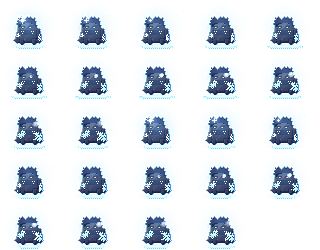
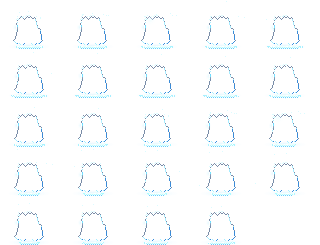
fix(client): effects review fixes
Slowed enemies were buried under the frozen sheet, which repaints the
whole body in ice: with a crowd slowed, enemy kinds (and the boss) could
not be told apart. The bake now keeps only the frost outside the body
(rim, snow, icicles, frost underfoot) and drops the big cold glows, the
scene always tints a slowed body blue, the frost cover is drawn at 0.6
alpha, and reduced effects keep only the tint.

diff --git a/packages/client/test/fx-atlas.test.ts b/packages/client/test/fx-atlas.test.ts
@@ -1,5 +1,6 @@
 import { existsSync, readFileSync } from 'node:fs';
 import { join } from 'node:path';
+import { inflateSync } from 'node:zlib';
 import { loadGameData } from '@dorandi/logic';
 import { describe, expect, test } from 'vitest';
 import { FX_KEYS, areaSheet, hitKey, pierceSheet, quarterTurn, statusKey, textureKey } from '../src/fx/atlas';
@@ -88,7 +89,57 @@ describe('statuses regenerated per enemy sprite', () => {
     expect(statusKey('stun', 'nobody')).toBe('stun-japgwi');
     expect(statusKey('frozen', 'nobody')).toBeNull();
   });
+
+  test('the frost sheet leaves the inside of the body clear, so a slowed enemy still reads as itself', () => {
+    for (const id of ['japgwi', 'geuseundae', 'dueoksini', 'jinegaksi', 'gangcheori']) {
+      const key = `frozen-${id}` as keyof typeof FX_SHEETS;
+      const s = FX_SHEETS[key];
+      const sprite = readPng(join(__dirname, '..', 'public', 'sprites', `${id}.png`));
+      const sheet = readPng(join(PUBLIC, `${key}.png`));
+      const json = JSON.parse(readFileSync(join(PUBLIC, `${key}.json`), 'utf8')) as { frames: { frame: { x: number; y: number } }[] };
+      const on = (x: number, y: number) => x >= 0 && y >= 0 && x < sprite.w && y < sprite.h && sprite.alpha(x, y) > 0;
+      let inside = 0, covered = 0;
+      for (const { frame } of json.frames) {
+        for (let y = 0; y < sprite.h; y++) for (let x = 0; x < sprite.w; x++) {
+          if (!(on(x, y) && on(x - 1, y) && on(x + 1, y) && on(x, y - 1))) continue;
+          // the sheet's pivot is the sprite's feet: the bottom centre of its image
+          const fx = s.px - Math.floor(sprite.w / 2) + x, fy = s.py - sprite.h + y;
+          inside++;
+          if (fx >= 0 && fy >= 0 && fx < s.w && fy < s.h && sheet.alpha(frame.x + fx, frame.y + fy) >= 128) covered++;
+        }
+      }
+      expect(covered / inside, id).toBeLessThan(0.1);
+    }
+  });
 });
+
+/** Alpha of an 8-bit RGBA PNG (the format the bake writes and the sprites use). */
+function readPng(file: string): { w: number; h: number; alpha(x: number, y: number): number } {
+  const buf = readFileSync(file);
+  let pos = 8, w = 0, h = 0;
+  const idat: Buffer[] = [];
+  while (pos < buf.length) {
+    const len = buf.readUInt32BE(pos), kind = buf.toString('ascii', pos + 4, pos + 8), data = buf.subarray(pos + 8, pos + 8 + len);
+    if (kind === 'IHDR') {
+      w = data.readUInt32BE(0); h = data.readUInt32BE(4);
+      if (data[8] !== 8 || data[9] !== 6) throw new Error(`${file}: not 8-bit RGBA`);
+    }
+    if (kind === 'IDAT') idat.push(data);
+    pos += 12 + len;
+  }
+  const raw = inflateSync(Buffer.concat(idat)), stride = w * 4, out = new Uint8Array(w * h * 4);
+  for (let y = 0; y < h; y++) {
+    const f = raw[y * (stride + 1)]!;
+    for (let x = 0; x < stride; x++) {
+      const a = x >= 4 ? out[y * stride + x - 4]! : 0, b = y > 0 ? out[(y - 1) * stride + x]! : 0, c = x >= 4 && y > 0 ? out[(y - 1) * stride + x - 4]! : 0;
+      const p = a + b - c, pa = Math.abs(p - a), pb = Math.abs(p - b), pc = Math.abs(p - c);
+      const paeth = pa <= pb && pa <= pc ? a : pb <= pc ? b : c;
+      const add = f === 1 ? a : f === 2 ? b : f === 3 ? (a + b) >> 1 : f === 4 ? paeth : 0;
+      out[y * stride + x] = (raw[y * (stride + 1) + 1 + x]! + add) & 255;
+    }
+  }
+  return { w, h, alpha: (x, y) => out[(y * w + x) * 4 + 3]! };
+}
 
 test('directions snap to quarter turns', () => {
   expect(quarterTurn(5, 0.4)).toBe(0);

diff --git a/packages/client/test/fx-plan.test.ts b/packages/client/test/fx-plan.test.ts
@@ -2,8 +2,8 @@ import { createGame, laneOf, loadGameData, type GameEvent, type GameState, type 
 import { placeUnitForTest, spawnEnemyForTest } from '@dorandi/logic/testing';
 import { describe, expect, test } from 'vitest';
 import {
-  FX_FLAGS, FxBudget, PRIORITY, REDUCE_FX_KEY, auraBuffedSlots, auraMarkedEnemies, enemyStatus, planEvents, planFromState,
-  readReduceFx, shotStyle, writeReduceFx, type FxCmd, type PlanCtx,
+  FROST_ALPHA, FX_FLAGS, FxBudget, PRIORITY, REDUCE_FX_KEY, auraBuffedSlots, auraMarkedEnemies, enemyStatus, planEvents, planFromState,
+  readReduceFx, shotStyle, slowLook, writeReduceFx, type FxCmd, type PlanCtx,
 } from '../src/fx/plan';
 
 const data = loadGameData('stage2');
@@ -271,9 +271,18 @@ describe('budget', () => {
     expect(FxBudget.CAPS.reduced[PRIORITY.mid]).toBeLessThan(FxBudget.CAPS.normal[PRIORITY.mid]);
   });
 
-  test('reduced mode drops shake, edge glow, trails and mist but keeps status marks', () => {
-    expect(FX_FLAGS(false)).toEqual({ shake: true, edgeGlow: true, trails: true, mist: true, statuses: true, rays: true });
-    expect(FX_FLAGS(true)).toEqual({ shake: false, edgeGlow: false, trails: false, mist: false, statuses: true, rays: false });
+  test('reduced mode drops shake, edge glow, trails, mist and the frost cover but keeps status marks', () => {
+    expect(FX_FLAGS(false)).toEqual({ shake: true, edgeGlow: true, trails: true, mist: true, statuses: true, rays: true, frost: true });
+    expect(FX_FLAGS(true)).toEqual({ shake: false, edgeGlow: false, trails: false, mist: false, statuses: true, rays: false, frost: false });
+  });
+
+  test('a slowed enemy keeps its blue body tint; the frost cover is a see-through extra', () => {
+    expect(slowLook(true, FX_FLAGS(false))).toEqual({ tint: true, frost: true });
+    expect(slowLook(true, FX_FLAGS(true))).toEqual({ tint: true, frost: false });
+    expect(slowLook(false, FX_FLAGS(false))).toEqual({ tint: false, frost: false });
+    // faint: a column of slowed enemies must not turn into a wall of ice
+    expect(FROST_ALPHA).toBeGreaterThan(0);
+    expect(FROST_ALPHA).toBeLessThanOrEqual(0.6);
   });
 });
 

diff --git a/packages/client/src/fx/FxLayer.ts b/packages/client/src/fx/FxLayer.ts
@@ -1,7 +1,7 @@
 import Phaser from 'phaser';
 import { FX_KEYS, areaSheet, hitKey, pierceSheet, quarterTurn, statusKey, textureKey } from './atlas';
 import { FX_SHEETS, type FxKey } from './manifest';
-import { FX_FLAGS, FxBudget, PRIORITY, gradeHex, type EnemyStatus, type FxCmd, type FxFlags, type Priority, type ShotStyle } from './plan';
+import { FROST_ALPHA, FX_FLAGS, FxBudget, PRIORITY, gradeHex, slowLook, type EnemyStatus, type FxCmd, type FxFlags, type Priority, type ShotStyle } from './plan';
 import { Pool } from './pool';
 
 type Pt = { x: number; y: number };
@@ -385,7 +385,7 @@ export class FxLayer {
         const key = statusKey('stun', v.defId);
         if (key) stun.set(v.id, { key, x: v.x, y: v.feet, scale: v.scale, depth: FX_DEPTH.status + 0.05 });
       }
-      if (slowed) {
+      if (slowLook(slowed, this.flags).frost) {
         const key = statusKey('frozen', v.defId);
         if (key) frost.set(v.id, { key, x: v.x, y: v.feet, scale: v.scale, depth: FX_DEPTH.status });
       }
@@ -400,12 +400,8 @@ export class FxLayer {
     }
     this.syncLoop(this.stunOn, stun);
     this.syncLoop(this.frostOn, frost);
-  }
-
-  /** Whether an enemy has a frost overlay (the scene tints the ones that cannot have one). */
-  hasFrost(defId: string): boolean {
-    const key = statusKey('frozen', defId);
-    return !!key && this.ready.has(key);
+    // the sheet leaves the body clear (it shows tinted blue underneath); the frost around it stays faint
+    for (const spr of this.frostOn.values()) spr.setAlpha(FROST_ALPHA);
   }
 
   private drawText(now: number): void {

diff --git a/packages/client/src/fx/manifest.ts b/packages/client/src/fx/manifest.ts
@@ -32,11 +32,11 @@ export const FX_SHEETS = {
   'pierce-80': {src: 'melee/thrust', w: 168, h: 63, frames: 11, fps: 24, loop: false, px: 0, py: 49},
   'pierce-96': {src: 'melee/thrust', w: 174, h: 63, frames: 11, fps: 24, loop: false, px: 0, py: 49},
   'stun-japgwi': {src: 'status/stunned', w: 48, h: 34, frames: 24, fps: 12, loop: true, px: 23, py: 47},
-  'frozen-japgwi': {src: 'status/frozen', w: 60, h: 47, frames: 24, fps: 12, loop: true, px: 25, py: 43},
+  'frozen-japgwi': {src: 'status/frozen', w: 60, h: 46, frames: 24, fps: 12, loop: true, px: 25, py: 43},
   'stun-geuseundae': {src: 'status/stunned', w: 51, h: 34, frames: 24, fps: 12, loop: true, px: 25, py: 50},
-  'frozen-geuseundae': {src: 'status/frozen', w: 55, h: 50, frames: 24, fps: 12, loop: true, px: 24, py: 46},
+  'frozen-geuseundae': {src: 'status/frozen', w: 55, h: 49, frames: 24, fps: 12, loop: true, px: 24, py: 46},
   'stun-dueoksini': {src: 'status/stunned', w: 54, h: 34, frames: 24, fps: 12, loop: true, px: 26, py: 49},
-  'frozen-dueoksini': {src: 'status/frozen', w: 64, h: 50, frames: 24, fps: 12, loop: true, px: 29, py: 46},
+  'frozen-dueoksini': {src: 'status/frozen', w: 64, h: 49, frames: 24, fps: 12, loop: true, px: 29, py: 46},
   'stun-jinegaksi': {src: 'status/stunned', w: 60, h: 25, frames: 24, fps: 12, loop: true, px: 30, py: 56},
   'frozen-jinegaksi': {src: 'status/frozen', w: 64, h: 57, frames: 24, fps: 12, loop: true, px: 29, py: 54},
   'stun-gangcheori': {src: 'status/stunned', w: 60, h: 28, frames: 24, fps: 12, loop: true, px: 30, py: 56},

diff --git a/packages/client/src/fx/plan.ts b/packages/client/src/fx/plan.ts
@@ -287,11 +287,22 @@ export class FxBudget {
   }
 }
 
-export interface FxFlags { shake: boolean; edgeGlow: boolean; trails: boolean; mist: boolean; statuses: boolean; rays: boolean }
+export interface FxFlags { shake: boolean; edgeGlow: boolean; trails: boolean; mist: boolean; statuses: boolean; rays: boolean; frost: boolean }
 
-/** What 'reduce effects' turns off. Status marks stay: they tell the player what the enemy is doing. */
+/**
+ * What 'reduce effects' turns off. Status marks stay: they tell the player what the enemy is doing.
+ * A slow still shows as the blue body tint; only the animated frost cover goes.
+ */
 export function FX_FLAGS(reduced: boolean): FxFlags {
-  return { shake: !reduced, edgeGlow: !reduced, trails: !reduced, mist: !reduced, statuses: true, rays: !reduced };
+  return { shake: !reduced, edgeGlow: !reduced, trails: !reduced, mist: !reduced, statuses: true, rays: !reduced, frost: !reduced };
+}
+
+/** The frost cover (rim, snow, icicles, frost underfoot) is kept faint so a crowd of slowed enemies stays calm. */
+export const FROST_ALPHA = 0.6;
+
+/** How a slowed enemy is drawn: always the blue body tint, plus the see-through frost cover when effects allow it. */
+export function slowLook(slowed: boolean, flags: FxFlags): { tint: boolean; frost: boolean } {
+  return { tint: slowed, frost: slowed && flags.frost };
 }
 
 export const REDUCE_FX_KEY = 'dorandi.reduceFx';

diff --git a/packages/client/src/LaneScene.ts b/packages/client/src/LaneScene.ts
@@ -5,7 +5,7 @@ import type { Driver } from './driver';
 import { CELL, CENTER_H, CENTER_W, GRADE_COLOR, canvasToCell, laneToCanvas } from './layout';
 import { FX_DEPTH, FxLayer, type AuraView, type StatusView } from './fx/FxLayer';
 import { FX_KEYS, textureKey } from './fx/atlas';
-import { auraBuffedSlots, auraMarkedEnemies, enemyStatus, planEvents, planFromState, readReduceFx, writeReduceFx, type FxCmd } from './fx/plan';
+import { FX_FLAGS, auraBuffedSlots, auraMarkedEnemies, enemyStatus, planEvents, planFromState, readReduceFx, slowLook, writeReduceFx, type FxCmd } from './fx/plan';
 
 const ENEMY_COLOR: Record<string, number> = { geuseundae: 0x5a4a7a, dueoksini: 0x6a4a3a, jinegaksi: 0x8a2a3a, gangcheori: 0x4a5a6a };
 const hex = (c: string) => Number.parseInt(c.slice(1), 16);
@@ -438,7 +438,7 @@ export class LaneScene extends Phaser.Scene {
       if (shared) yeoksin = { x: view.x, y: view.y };
       const status = enemyStatus(enemy, marked.has(enemy.id), shared);
       this.clearFlash(view);
-      this.tintSlow(view, status.slowed && !this.fx?.hasFrost(enemy.defId));
+      this.tintSlow(view, slowLook(status.slowed, this.fx?.flags ?? FX_FLAGS(false)).tint);
       if (status.stunned || status.slowed || status.marked) {
         const body = view.first as Phaser.GameObjects.Image | Phaser.GameObjects.Arc;
         const scale = body instanceof Phaser.GameObjects.Image ? body.scaleY : 0.75;
